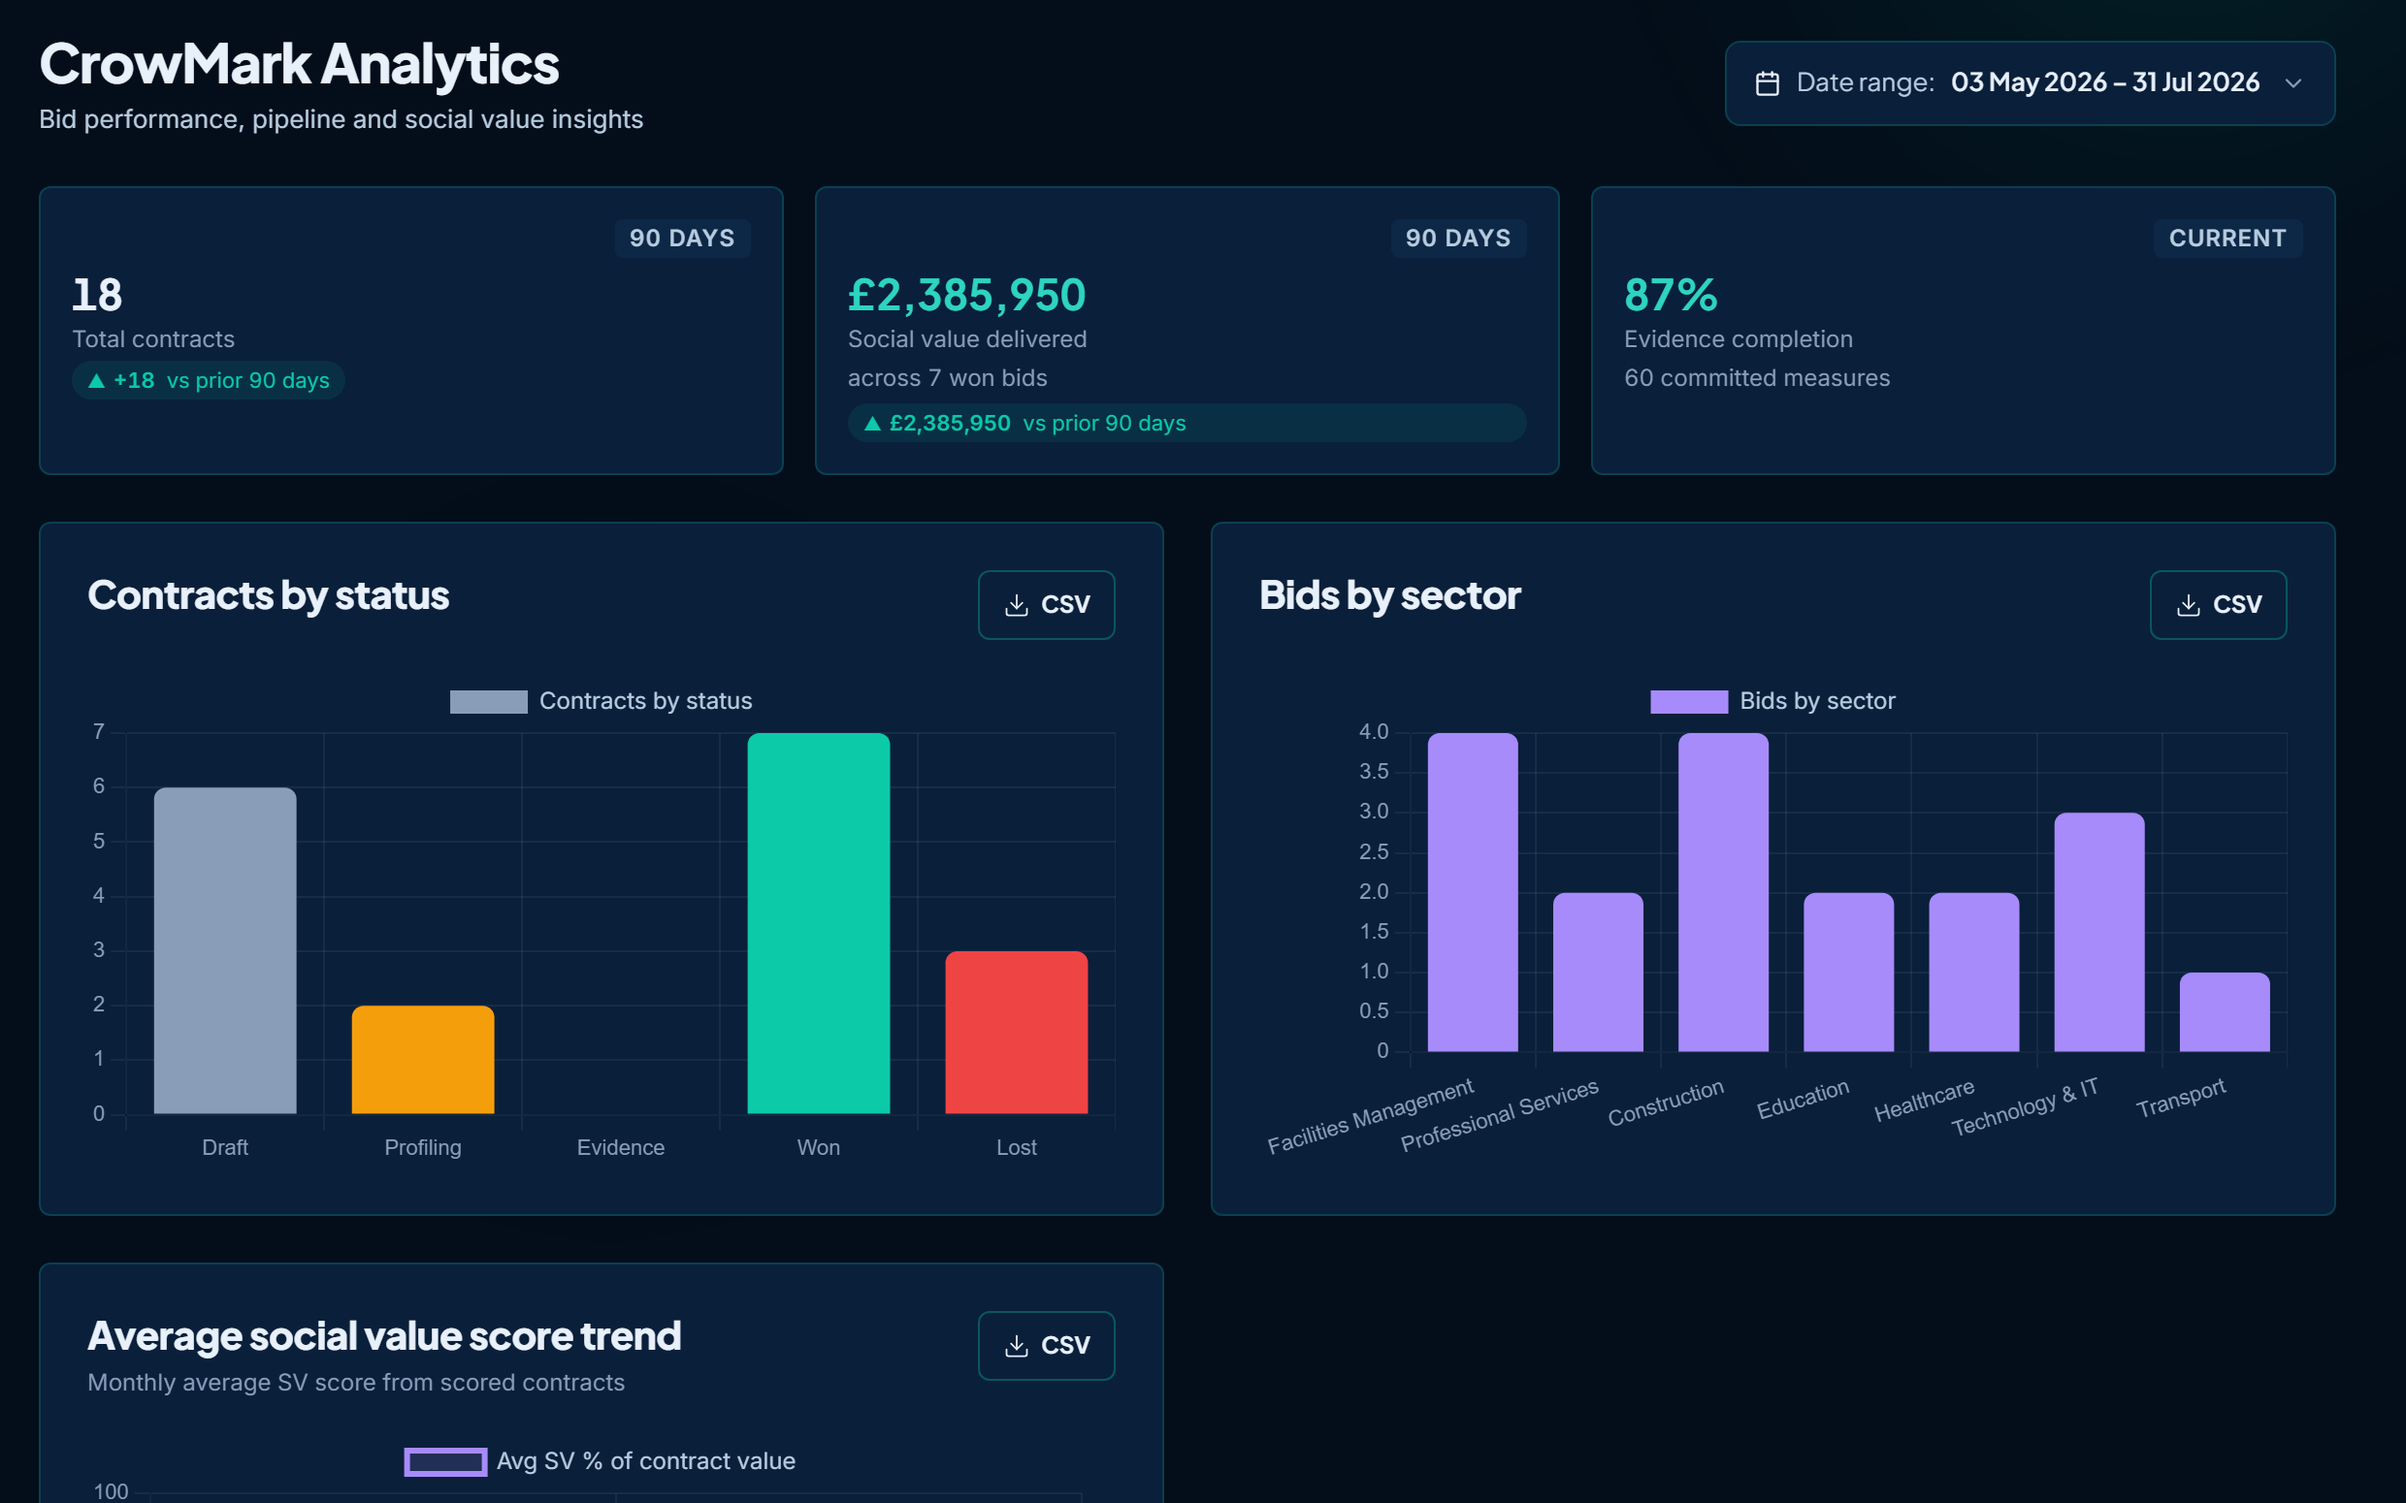
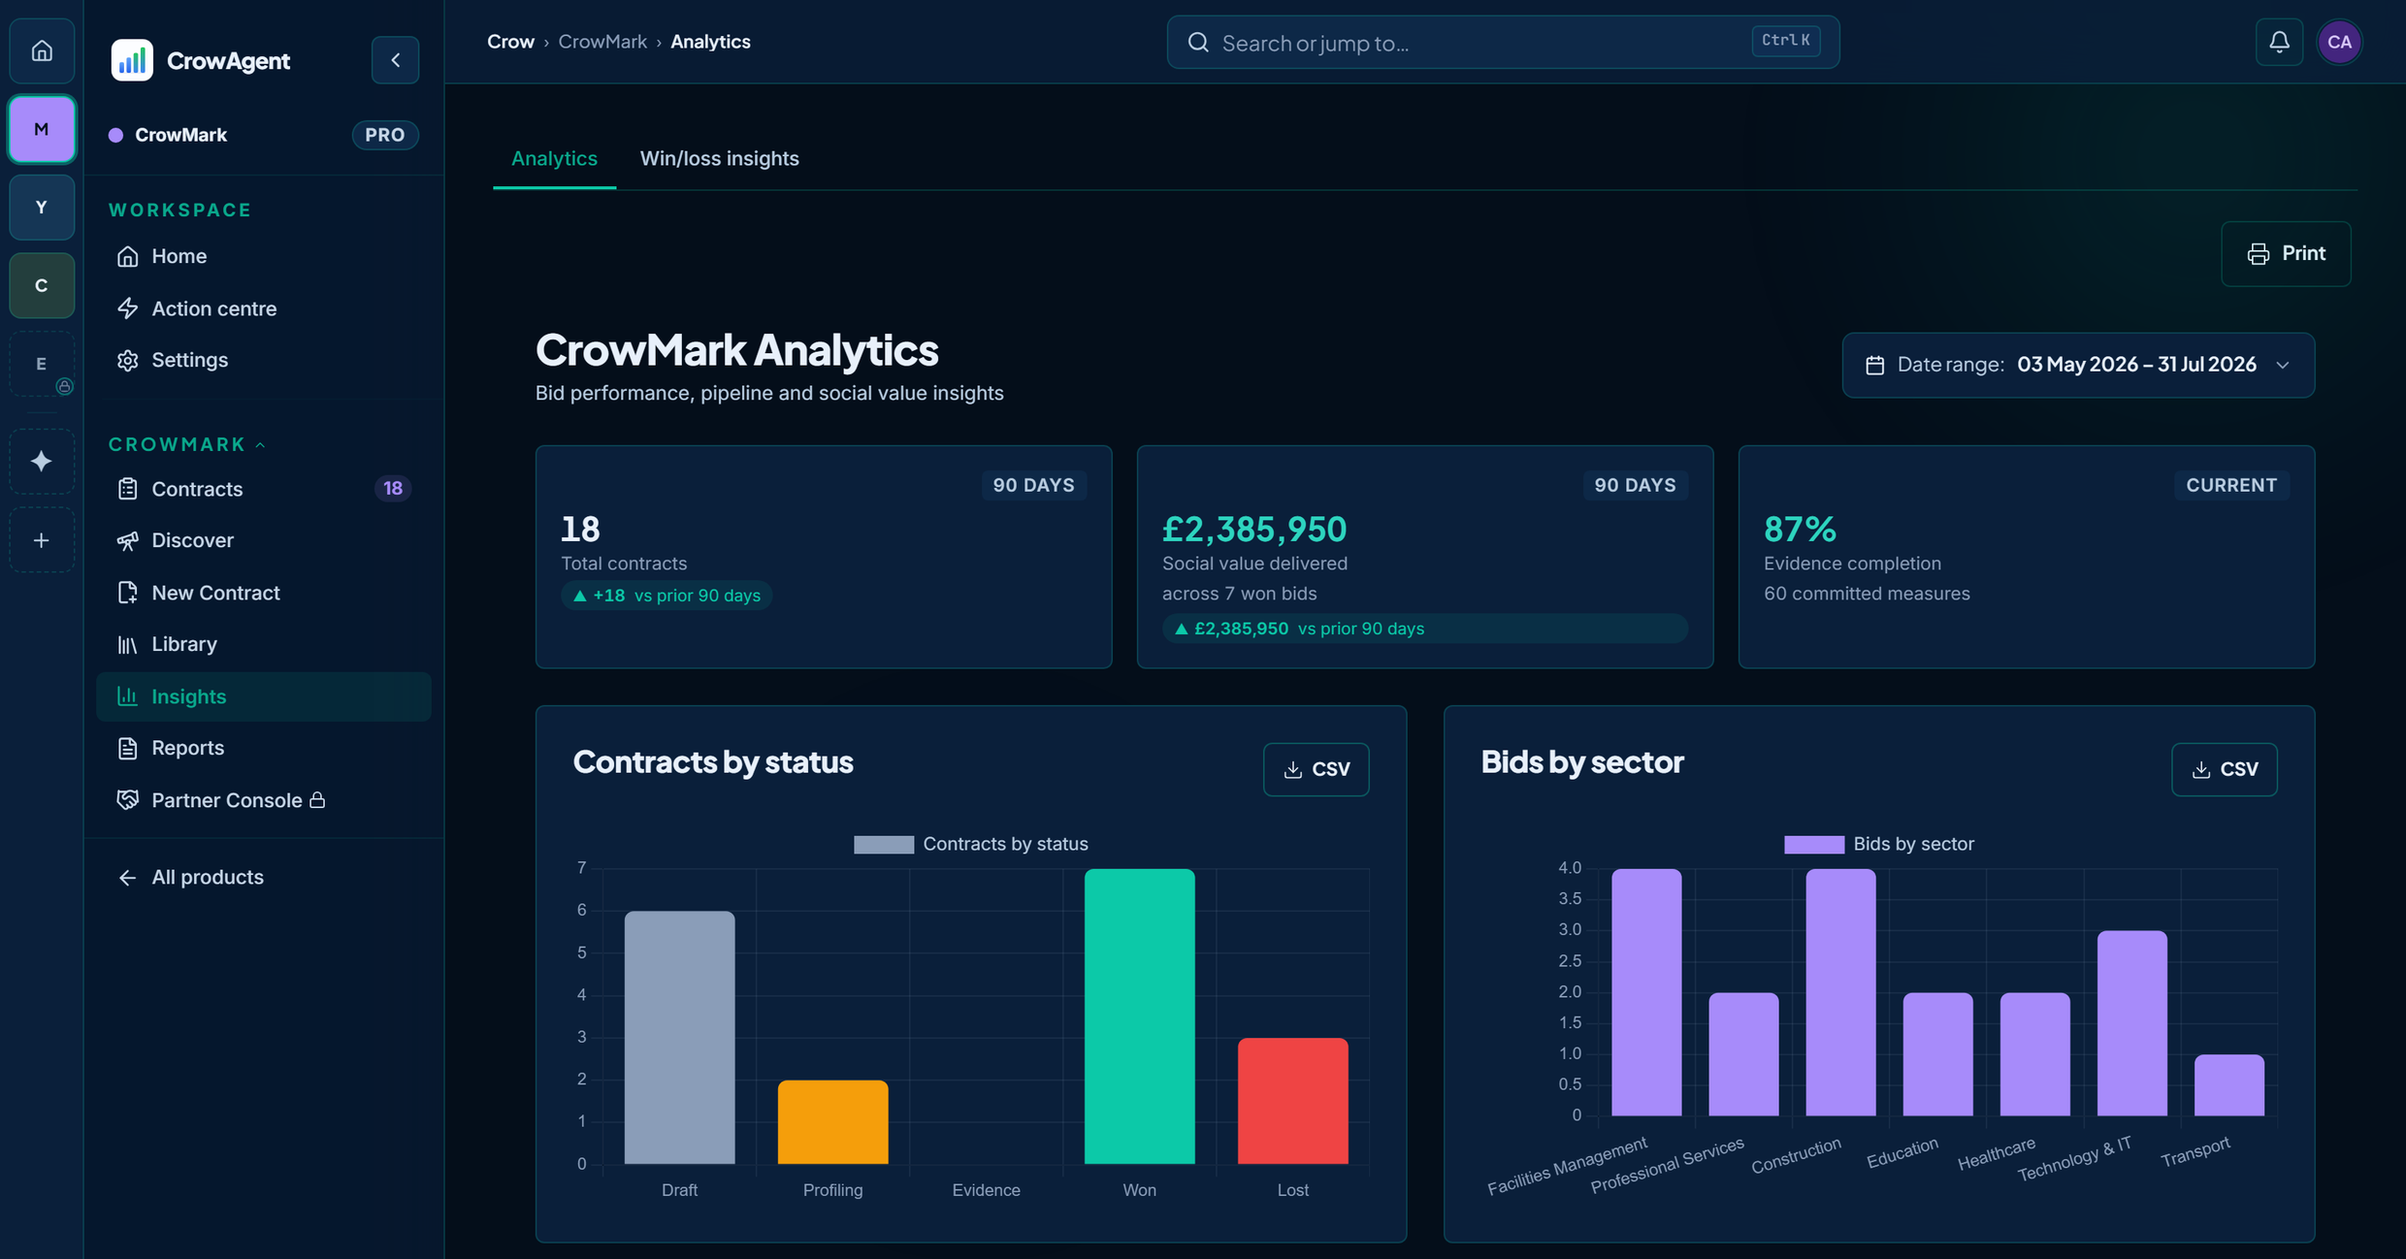
fix(home): stop the hero capture ending mid-chart
The most-seen image on the site finished on a half-drawn panel. The shipped asset was
2480x1550 — exactly 8/5, which matched the box, so cover cropped nothing and the defect was
invisible to every geometry check. But 8/5 taken from the top of the 3200x2600 source lands at
y=2000, which is INSIDE the second chart row: "Average social value score trend" showed its
header, subtitle, legend and a single "100" axis tick, then the image stopped. Plot gone,
bottom border gone.

Recut to end just below the FIRST chart row instead, so the frame closes on complete objects:
header, three KPI tiles, and "Contracts by status" + "Bids by sector" both finishing with their
borders and full axis labels. That is 2480x1298, ratio 1.911, and the box now follows the
capture rather than the capture being forced into the box.

The new ratio is scoped to >=641px. Unscoped it also won at 390 and flattened the 16/9
art-direction window, killing the 2.5x zoom that makes the figures readable on a phone.
Verified: 390/640 box 1.78 at 2.50x, 641/1440 box 1.91 at 1.00x, natural 1.911, 0 console errors.

diff --git a/index.html b/index.html
@@ -47,7 +47,7 @@
 <link rel="stylesheet" href="/crowagent-brand-tokens.css?v=20260729b">
 <link rel="stylesheet" href="/Assets/css/ultra-premium-interactions.css?v=20260730f">
 <link rel="stylesheet" href="/Assets/css/ultra-premium-responsive.css?v=20260731u">
-<link rel="stylesheet" href="/Assets/css/nebula-livepanels.css?v=20260731d">
+<link rel="stylesheet" href="/Assets/css/nebula-livepanels.css?v=20260731f">
 <link rel="stylesheet" href="/Assets/css/draft-demo-2026-07-30.css?v=20260730a">
   <link rel="stylesheet" href="/Assets/css/find-demo-2026-07-30.css?v=20260731c">
   <link rel="stylesheet" href="/Assets/css/prove-demo-2026-07-30.css?v=20260730a">
@@ -444,7 +444,7 @@ html.nb-js .reveal.in,html.nb-js .nb-reveal.in{opacity:1;transform:none}
       <div class="nb-frame">
         <div class="nb-chrome"><i aria-hidden="true"></i><i aria-hidden="true"></i><i aria-hidden="true"></i><span aria-hidden="true">app.crowagent.ai</span></div>
         <div class="nb-shot">
-          <picture><source type="image/avif" srcset="/Assets/shots/dark/mark-analytics-hero.avif?v=20260731e"><source type="image/webp" srcset="/Assets/shots/dark/mark-analytics-hero.webp?v=20260731e"><img src="/Assets/shots/dark/mark-analytics-hero.png?v=20260731e" width="2480" height="1550" alt="The CrowMark bid analytics screen, shown with sample data: headline tiles for contracts, social value delivered and evidence completion, with bar charts of contracts by status and bids by sector" fetchpriority="high" decoding="async"></picture>
+          <picture><source type="image/avif" srcset="/Assets/shots/dark/mark-analytics-hero.avif?v=20260731f"><source type="image/webp" srcset="/Assets/shots/dark/mark-analytics-hero.webp?v=20260731f"><img src="/Assets/shots/dark/mark-analytics-hero.png?v=20260731f" width="2480" height="1298" alt="The CrowMark bid analytics screen, shown with sample data: headline tiles for contracts, social value delivered and evidence completion, with bar charts of contracts by status and bids by sector" fetchpriority="high" decoding="async"></picture>
         </div>
       </div>
       <figcaption class="nb-cap"><i></i>CrowMark analytics, shown with a sample account</figcaption>
@@ -1091,7 +1091,7 @@ html.nb-js .reveal.in,html.nb-js .nb-reveal.in{opacity:1;transform:none}
                   <source type="image/avif" srcset="/Assets/shots/dark/mark-reports.avif?v=20260731a">
                   <source type="image/webp" srcset="/Assets/shots/dark/mark-reports.webp?v=20260731a">
                   <img src="/Assets/shots/dark/mark-reports.png?v=20260731a"
-                       width="2480" height="1550" loading="lazy" decoding="async"
+                       width="2480" height="1298" loading="lazy" decoding="async"
                        alt="The CrowMark reports screen: eight reports you can run on your own data, including bid pipeline and forecast, win/loss outcomes, social value committed versus delivered, requirement coverage and compliance, and answer-library health. Each names the tables it reads from, and the pipeline report states that CrowMark does not model win probability." />
                 </picture>
               </figure>

diff --git a/Assets/css/nebula-livepanels.css b/Assets/css/nebula-livepanels.css
@@ -102,3 +102,18 @@
     margin-left: 0;
   }
 }
+
+/* HERO BOX RATIO FOLLOWS THE RECROPPED CAPTURE, 2026-07-31.
+   The shipped hero was 2480x1550 — exactly 8/5, which is why the box matched it and cover had
+   nothing to crop. But 8/5 taken from the top of a 3200x2600 capture lands at source y=2000,
+   which is INSIDE the second chart row: the asset ended mid-panel, showing the header,
+   subtitle, legend and one axis tick of "Average social value score trend" and then stopping.
+   The most-seen image on the site finished on a half-drawn chart.
+   Recropped to end just below the FIRST chart row instead — header, KPI tiles and two complete
+   charts, both closing with their bottom borders — which is 2480x1298, ratio 1.911. The box
+   follows the capture rather than the capture being forced into the box. */
+/* Scoped ABOVE the mobile breakpoint. Unscoped it also won at 390 and overrode the 16/9
+   art-direction window, flattening the zoom that makes the figures legible there. */
+@media (min-width: 641px) {
+  .nb-shot:has(img[src*="mark-analytics-hero"]) { aspect-ratio: 2480 / 1298; }
+}
